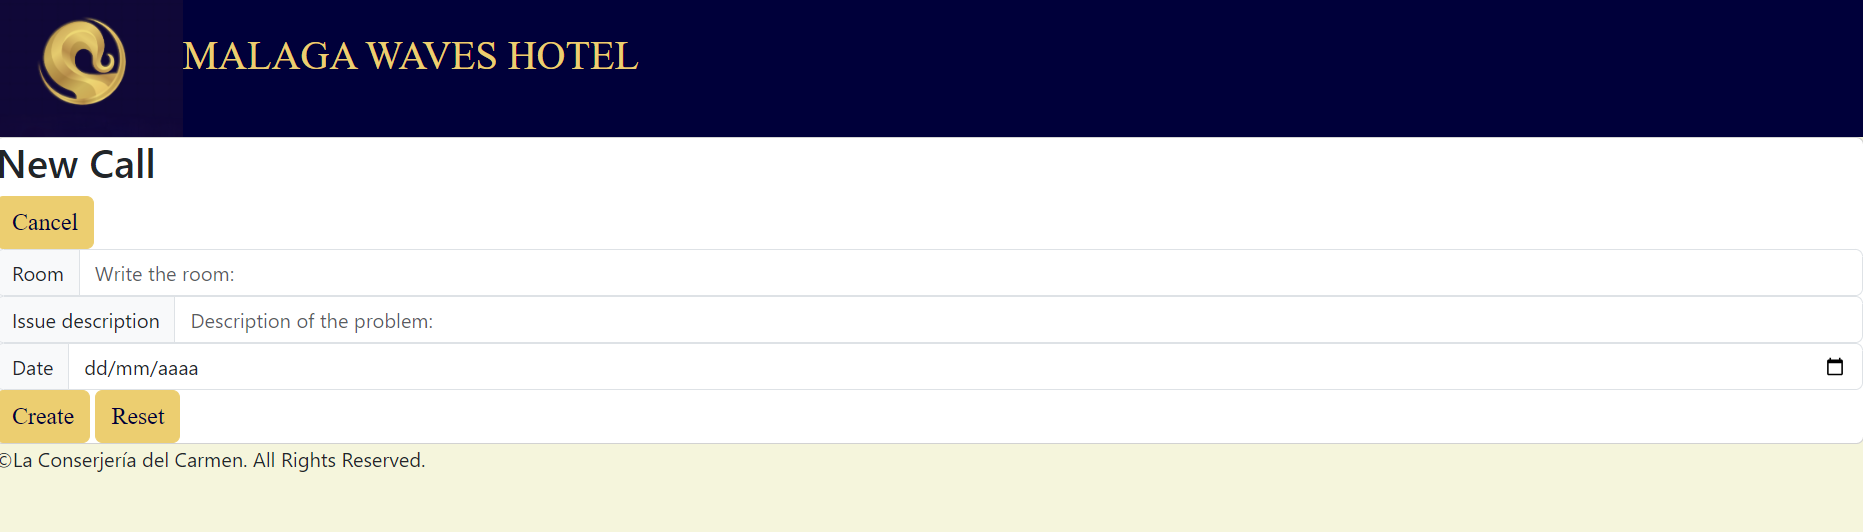
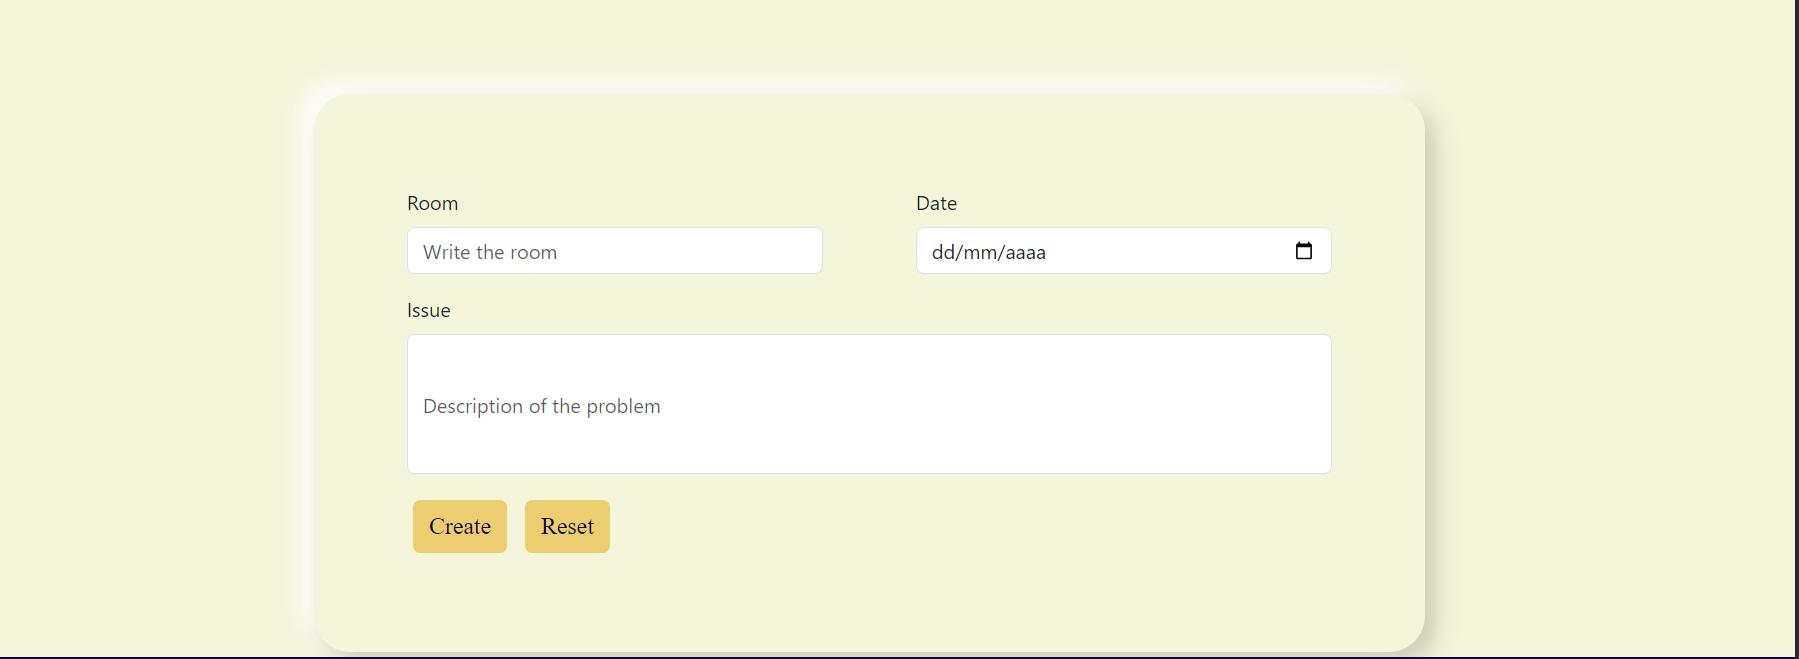
feat: changed the imgs on readme

diff --git a/README.md b/README.md
@@ -63,7 +63,7 @@ In order to run this project locally, you need:
       - The Edit button (The 📝 emoji): Allows you to edit the room, issue and date of the selected incident.
   
 2. If you want to add a new incident, you can do it by clicking on the "Add Issue" button.
-![Our new calls form ](/public/img/formulario.png)
+![Our new calls form ](/public/img/form.png)
     - You will be redirected to a new page where you can fill in the required information: Room, Issue and Date of the call.
       - Once you have filled in the required information, you can submit the form by clicking on the "Create" button.
         - You will be again in the main page and see the new incident has been added.
